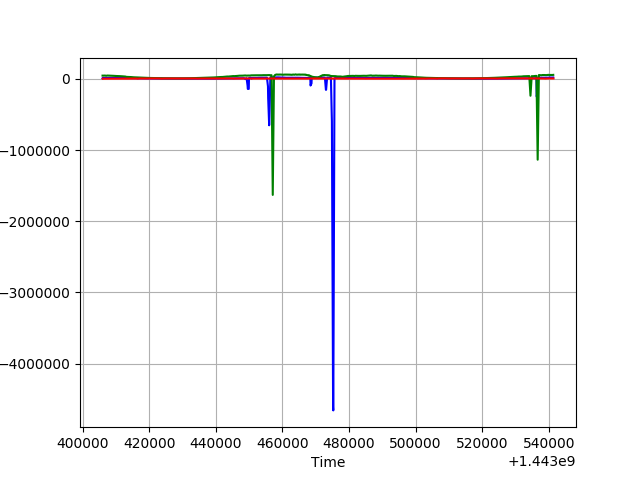
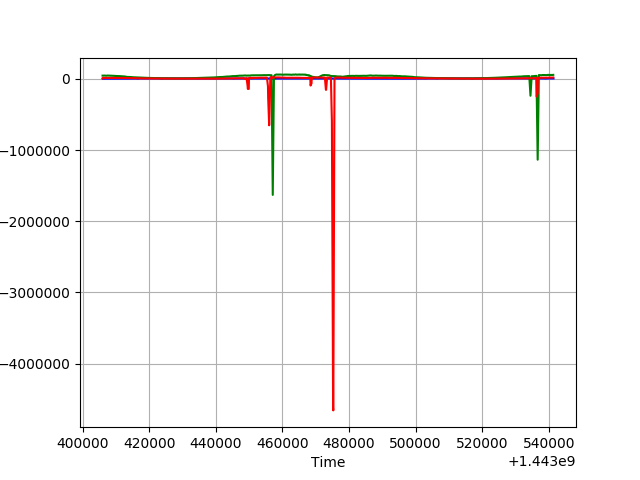
Removed negatives values and added inital readme

diff --git a/logic.py b/logic.py
@@ -10,23 +10,39 @@ def readData(data):
         if row[0] == 'Type':
             #First row should just be Type, Time, Value, Data center
             continue
-        else:
+        elif row[0] == 'rtb.requests':
             dataType = row[3][-1]
             if dataType not in dataCenters:
                 dataCenters[dataType] = []
-            dataCenters[dataType].append([row[1], row[2]])
-
+            dataCenters[dataType].append([int(row[1]), float(row[2])])
+        else:
+            #for other request types?
+            continue
     return dataCenters
 
-def drawGraph(dataCenters):
-    #Plots up to 7 data centers
+#Organizes, manipulates, or removes data
+def handleData(dataCenters):
+    data = {}
+    for dataType in dataCenters:
+        dataCenter = dataCenters[dataType]
+
+        xValues = []
+        yValues = []
+        for time, value in dataCenter:
+            xValues.append(time)
+            yValues.append(value)
+    
+        data[dataType] = [xValues, yValues]
+    return data
+
+def drawSimpleGraph(dataCenters, graphName):
     lineColors = ['k', 'y', 'm', 'c', 'r', 'g', 'b']
     assignedColors = {}
     plt.xlabel('Time')
     plt.ylabel('Value')
     plt.grid(True)
     for dataType in dataCenters:
-        dataCenter = dataCenters[dataType]
+        xValues, yValues = dataCenters[dataType]
         color = 'k' #default color
         if dataType in assignedColors:
             color = assignedColors[dataType]
@@ -34,15 +50,26 @@ def drawGraph(dataCenters):
             color = lineColors.pop()
             assignedColors[dataType] = color
 
-        xValues = []
-        yValues = []
-        for dataPair in dataCenter:
-            time = dataPair[0]
-            value = dataPair[1]
-            xValues.append(time)
-            yValues.append(value)
-            #date = datetime.fromtimestamp(time).strftime('%c')
         plt.plot(xValues, yValues, color)
         
-    plt.savefig("simpleGraph.png")
+    plt.savefig(graphName)
     plt.show()
+
+#Assume rtb = real time bids so value is money so it cannot be negative
+#Also the negatives values heavily skewed the simple graph making it unreadable
+def handleDataNoNegatives(dataCenters):
+    data = {}
+    for dataType in dataCenters:
+        dataCenter = dataCenters[dataType]
+
+        xValues = []
+        yValues = []
+        for time, value in dataCenter:
+            if value < 0:
+                continue
+            else:
+                xValues.append(time)
+                yValues.append(value)
+    
+        data[dataType] = [xValues, yValues]
+    return data

diff --git a/conversant.py b/conversant.py
@@ -6,7 +6,10 @@ if __name__ == '__main__':
         sys.exit()
     else:
         data = readData(sys.argv[1])
-        drawGraph(data)
+        #nativeData = handleData(data)
+        #drawSimpleGraph(nativeData, 'simpleGraph.png')
+        noNegatives = handleDataNoNegatives(data)
+        drawSimpleGraph(noNegatives, 'noNegatives.png')
         
 
             
